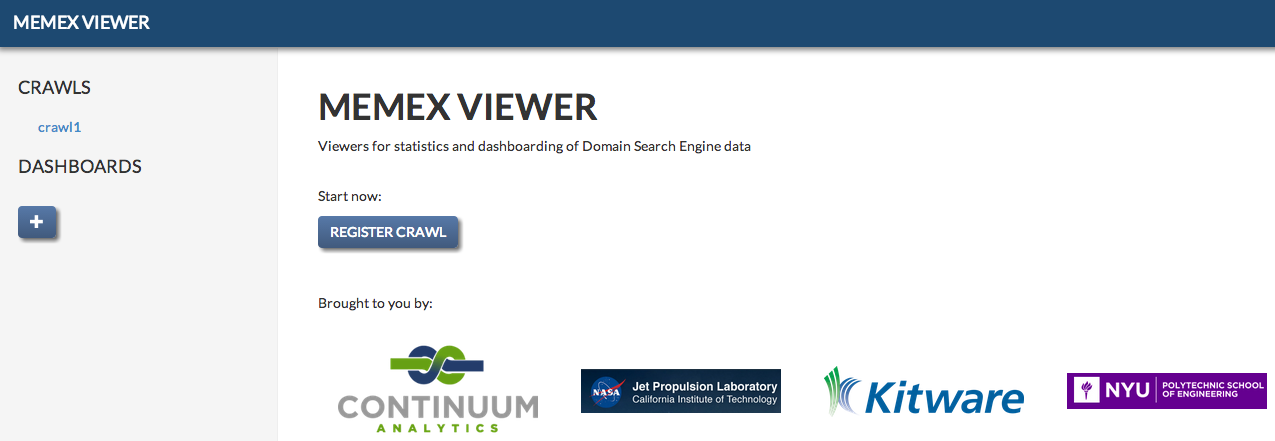
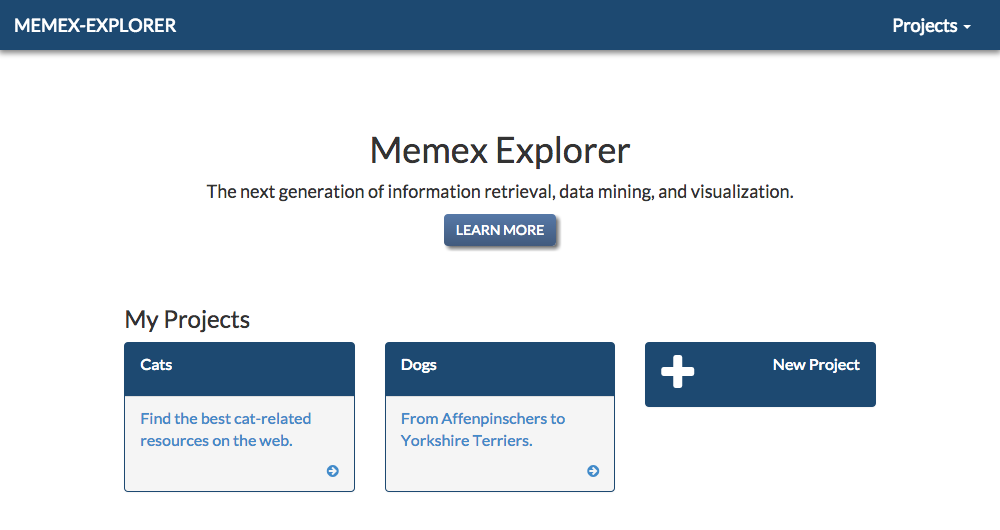
Update user guide, add updated screenshots

diff --git a/docs/source/user_guide.rst b/docs/source/user_guide.rst
@@ -1,58 +1,76 @@
-User's Guide to memex-explorer
+User's Guide to Memex Explorer
 ----------------------------
 
-*NOTE: memex-explorer is still in development, and features are still being added. Do not expect the current product to reflect the final one.*
+*NOTE: Memex Explorer is still under active development, and this guide is
+constantly evolving as a result. For documentation requests, please
+`file an issue <https://github.com/memex-explorer/memex-explorer/issues>`_
+and we will endeavor to address it as soon as possible.*
 
-The Interface
-=============
+Application Structure
+=====================
 
-This is the memex-explorer interface. It is designed to be clean, straightforward, and easy-to-use. 
+Memex Explorer is a web application that registers *microservices*. Each
+microservice provides a specific functionality—at present, these include:
+
+Crawl Space
+  A microservice to create, run, and analyze `Nutch <http://nutch.apache.org/>`_
+  and `ACHE <https://github.com/ViDA-NYU/ache>`_ crawls. The crawl operation
+  is heavily abstracted and simplified. Users provide a list of seed URLs to
+  start the crawl, and in the case of ACHE's targeted crawling,
+  a machine learning `model <https://github.com/ViDA-NYU/ache#build-a-model-for-aches-page-classifier>`_ to declare the relevancy of crawled pages.
+
+Image Space
+  A microservice for the display and searching of images and their associated
+  metadata. As a basic example of microservice interoperation,
+  users will be able to dump images from Nutch crawls into an Image Space
+  for analysis. Users can also search for images that match on the registered
+  camera serial number, as well as upload their own images into an
+  Image Space for comparison.
+
+Home Page
+=========
+
+The landing page lists currently registered projects. All microservice features
+are connected to, and accessed through, a given project. To create a project,
+click on the "New Project" button.
 
 .. image:: _static/img/homepage-view.png
+
+Project Page
+============
+
+The project page lists actions provided by registered microservices. Click
+on the gear icon to change the project name or description.
+
+In the current iteration of Memex Explorer, only the Crawl Space microservice
+has been registered. Therefore, each project page will list the current
+crawls and crawl models.
+
+.. image:: _static/img/project-page.png
+
+Registering a Crawl Model
+=========================
+
+ACHE crawls require a *Crawl Model* to power the page classifier.
+The model consists of two elements: a "model" file and "features" file. These
+can be generated by following the `instructions <https://github.com/ViDA-NYU/ache#build-a-model-for-aches-page-classifier>`_ on the ACHE GitHub page.
+
+To register a new crawl model, click on the '+' icon in the Crawl Models header.
+This will take you to the crawl model registration page.
+
+.. image:: _static/img/add-crawl-model.png
 
 Registering a Crawl
 ===================
 
-To register a crawl, simply click the '+' button on the sidebar. This will take you to the crawl registration page, where you will provide the name and description for the crawl that you are regestering.
+To register a new crawl, click the '+' icon in the Crawls header. This will
+take you to the crawl registration page.
 
 .. image:: _static/img/add-crawl.png
 
-Assuming you have named your crawl 'crawl2', it will now show up on the sidebar, and you can begin to add plots and data sources for your crawl by clicking the link in the sidebar. 
+For Nutch crawls, you will need to provide a name, a description, and a seeds
+list text file containing newline-delimited URLs.
 
-.. image:: _static/img/sidebar-crawl2.png
+For ACHE crawls, you will need to provide the same inputs as above, and
+furthermore select a Crawl Model.
 
-Registering Monitor Data
-========================
-
-The next step in using memex-explorer is to register a data source for analysis. This data source must be a URI, or `Uniform Resource Identifier <http://en.wikipedia.org/wiki/Uniform_resource_identifier>`_. This tells memex-explorer where to look for your dataset, and it will register the location in a database for continued use. First, you should see the following menu when you have registered your crawl:
-
-.. image:: _static/img/crawl-register-success.png
-
-Next, click the 'Add Monitor Data' button to add a data source to your crawl. The menu looks similar to the add crawl menu, but with the added 'Data URI' field. At the moment, the data URI must be a link to somewhere on your computer. You can provide an absolute path (if it is not in the memex-explorer folder) or a relative path (if it is in the memex-explorer folder).
-
-.. image:: _static/img/register-monitor-data.png
-
-Exploring Registered Data
-=========================
-
-After going to the page of your new crawl, you should see a few menu items. There is the crawl data information, along with buttons for adding more data, adding plots, as well as deleting or editing the crawl page. 
-
-.. image:: _static/img/crawl_dash.png
-
-To explore the data, simply click on the link to the data, and then click 'Explore'. This will tell you about the shape of the data, as well as the first few items of the dataset. 
-
-.. image:: _static/img/data-explorer.png
-
-Plotting Registered Data
-========================
-
-In the future, you will be able to automatically generate plots for your data using ContinuumIO's plotting library, `Bokeh <http://bokeh.pydata.org/>`_. As of now, we have a sample of some datasets of web crawls that have been graphed and integrated into memex-explorer. This interface will look something like this:
-
-.. image:: _static/img/plot-view.png
-
-and is accessable by clicking the relevant plot link on the crawl1 page.
-
-Further Features
-================
-
-In addition to automatic plotting, in the future we will be adding capabilities for custom dashboards containing streaming data and animated graphs. 
